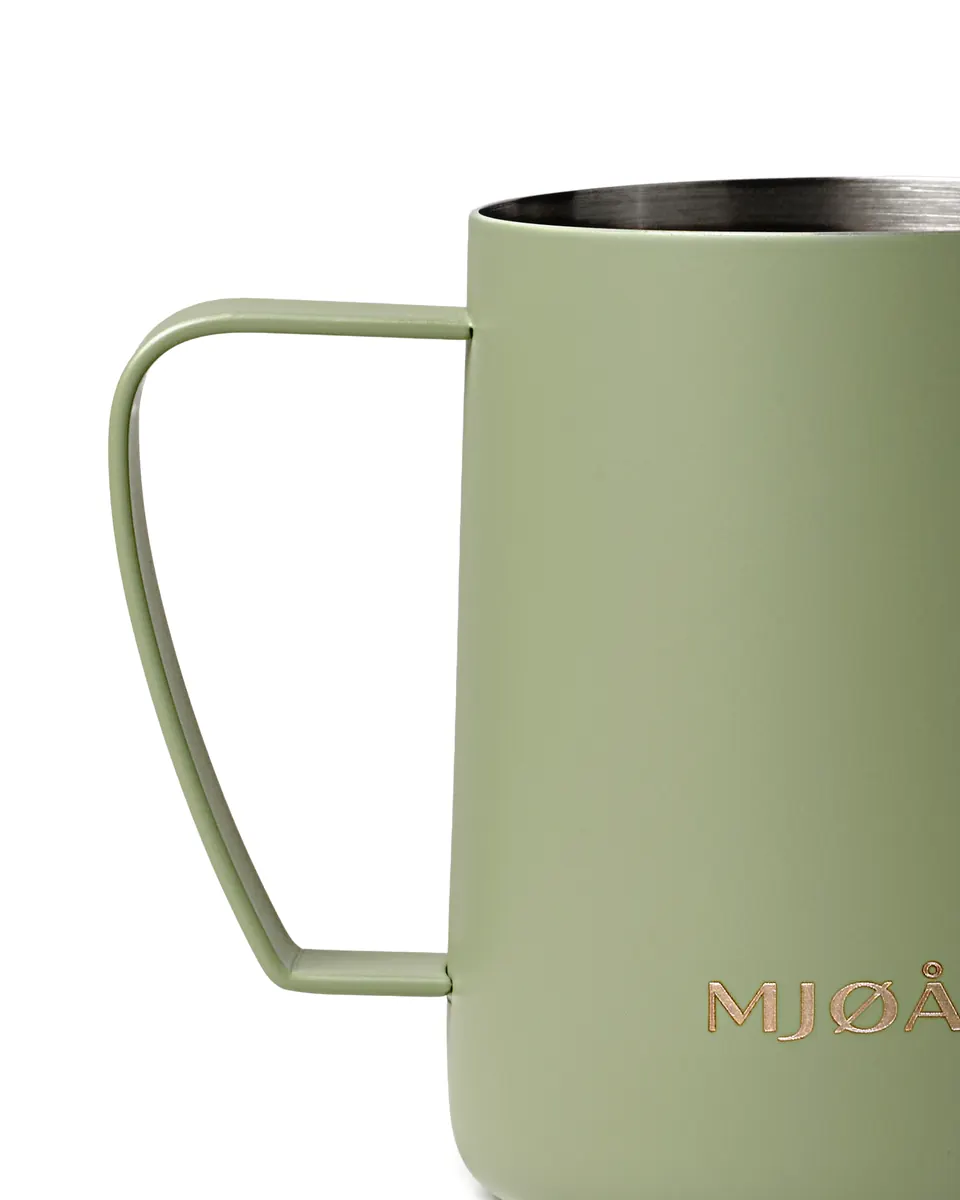
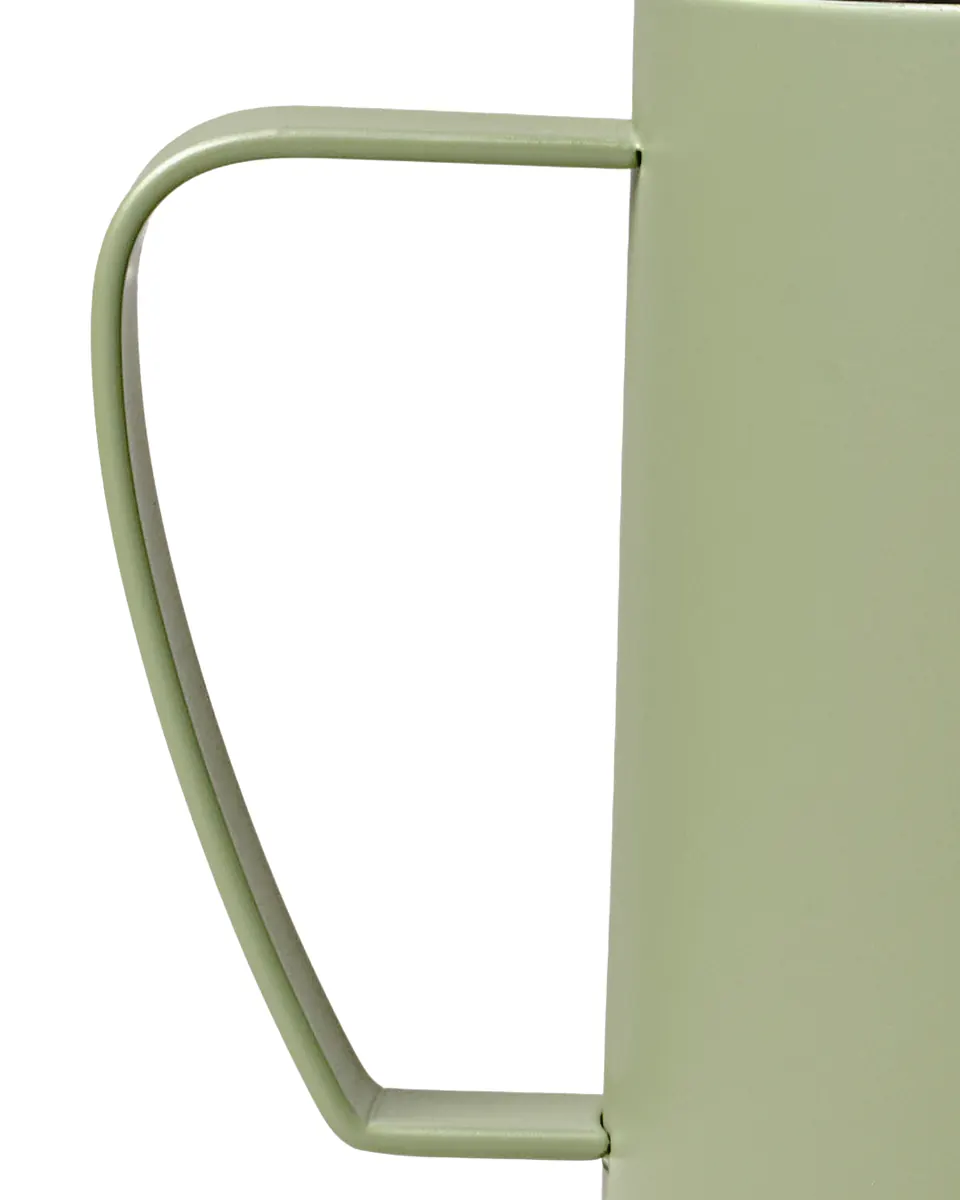
mjoar.com: Details Ausguss und Griff, Griff-Bild ohne angeschnittenen Schriftzug (Abschnitt 4, Thorsten 08.10.)
Ausguss nach Jonahs Aenderungsplan, Griff ohne gestapelte Vorteile (DE/EN).
Griff-Bild 0182 als 4:5-Ausschnitt nur mit Griff und Korpusansatz; nicht mehr
verwendete detail-griff-1600.webp entfernt.

diff --git a/de/index.html b/de/index.html
@@ -69,7 +69,7 @@
 
 <section class="abschnitt innen" id="details">
   <div class="raster kopfzeile" data-reveal><div class="k-titel"><p class="dach">Bis ins Detail</p><h2>Für jeden Tag, für viele Jahre</h2></div><p class="k-text">Damit sie dich möglichst lange begleitet, haben wir bei der LUN auch auf die Dinge geachtet, die man nicht auf den ersten Blick sieht.</p></div>
-  <div class="raster paar bild-rechts" data-reveal><div class="paar-bild"><img class="b45" src="/assets/web/detail-ausguss-680.webp" srcset="/assets/web/detail-ausguss-480.webp 480w, /assets/web/detail-ausguss-680.webp 680w" sizes="(max-width: 860px) 100vw, 520px" width="960" height="1200" alt="Ausguss der LUN" loading="lazy" decoding="async"></div><div class="paar-text"><h3>Der Ausguss</h3><p>Beim Ausguss haben wir uns für eine ausgewogene Form entschieden, nicht zu schmal und nicht zu breit. So hast du Spielraum für verschiedene Muster, vom Herz bis zur Rosetta. Vorne ist er rund gezogen, dadurch läuft die Milch gleichmäßig und reißt am Ende sauber ab.</p></div></div><div class="raster paar bild-links" data-reveal><div class="paar-bild"><img class="b45" src="/assets/web/detail-wand-960.webp" srcset="/assets/web/detail-wand-480.webp 480w, /assets/web/detail-wand-960.webp 960w, /assets/web/detail-wand-1600.webp 1600w" sizes="(max-width: 860px) 100vw, 520px" width="960" height="1200" alt="Rand der LUN in Juniper" loading="lazy" decoding="async"></div><div class="paar-text"><h3>Die Wand</h3><p>Die LUN ist aus einem Millimeter Edelstahl 304 gefertigt, die ganze Kanne einschließlich Griff. Viele Kannen in dieser Größe sind dünner. Das zusätzliche Gewicht liegt gut in der Hand und macht das Gießen ruhiger.</p></div></div><div class="raster paar bild-rechts" data-reveal><div class="paar-bild"><img class="b45" src="/assets/web/gebrauch-aufschaeumen-960.webp" srcset="/assets/web/gebrauch-aufschaeumen-480.webp 480w, /assets/web/gebrauch-aufschaeumen-960.webp 960w, /assets/web/gebrauch-aufschaeumen-1600.webp 1600w, /assets/web/gebrauch-aufschaeumen-2400.webp 2400w" sizes="(max-width: 860px) 100vw, 520px" width="960" height="1200" alt="Milch aufschäumen mit der LUN in Juniper" loading="lazy" decoding="async"></div><div class="paar-text"><h3>Die Wärme</h3><p>Edelstahl leitet Wärme gut. Beim Aufschäumen kannst du deshalb am Korpus fühlen, wie warm die Milch gerade ist, und mit etwas Übung bekommst du dafür schnell ein Gefühl. Wird er zu heiß zum Anfassen, ist die Milch fertig. Der Griff bleibt dabei angenehm.</p></div></div><div class="raster paar bild-links" data-reveal><div class="paar-bild"><img class="b45" src="/assets/web/detail-skala-784.webp" srcset="/assets/web/detail-skala-480.webp 480w, /assets/web/detail-skala-784.webp 784w" sizes="(max-width: 860px) 100vw, 520px" width="960" height="1200" alt="Skala innen in ml und oz" loading="lazy" decoding="async"></div><div class="paar-text"><h3>Die Skala</h3><p>Innen ist eine Skala in Milliliter und Unzen lasergraviert. So kannst du jeden Morgen die gleiche Menge Milch nehmen, ohne zu schätzen. Weil sie im Stahl sitzt, hält sie auch in der Spülmaschine.</p></div></div><div class="raster paar bild-rechts" data-reveal><div class="paar-bild"><img class="b45" src="/assets/web/detail-griff-960.webp" srcset="/assets/web/detail-griff-480.webp 480w, /assets/web/detail-griff-960.webp 960w, /assets/web/detail-griff-1600.webp 1600w" sizes="(max-width: 860px) 100vw, 520px" width="960" height="1200" alt="Griff und Oberfläche der LUN in Linen" loading="lazy" decoding="async"></div><div class="paar-text"><h3>Der Griff</h3><p>Der Griff ist nahtlos angesetzt, ohne sichtbare Schweißpunkte. Das sieht ruhiger aus, lässt sich leichter sauber halten, und die Kanne lässt sich beim Eingießen gut führen.</p></div></div>
+  <div class="raster paar bild-rechts" data-reveal><div class="paar-bild"><img class="b45" src="/assets/web/detail-ausguss-680.webp" srcset="/assets/web/detail-ausguss-480.webp 480w, /assets/web/detail-ausguss-680.webp 680w" sizes="(max-width: 860px) 100vw, 520px" width="960" height="1200" alt="Ausguss der LUN" loading="lazy" decoding="async"></div><div class="paar-text"><h3>Der Ausguss</h3><p>Wir haben uns bewusst für eine ausgewogene Ausgussform entschieden, nicht zu schmal und nicht zu breit. Sie lässt dir möglichst viel Spielraum für unterschiedliche Latte-Art-Muster.</p></div></div><div class="raster paar bild-links" data-reveal><div class="paar-bild"><img class="b45" src="/assets/web/detail-wand-960.webp" srcset="/assets/web/detail-wand-480.webp 480w, /assets/web/detail-wand-960.webp 960w, /assets/web/detail-wand-1600.webp 1600w" sizes="(max-width: 860px) 100vw, 520px" width="960" height="1200" alt="Rand der LUN in Juniper" loading="lazy" decoding="async"></div><div class="paar-text"><h3>Die Wand</h3><p>Die LUN ist aus einem Millimeter Edelstahl 304 gefertigt, die ganze Kanne einschließlich Griff. Viele Kannen in dieser Größe sind dünner. Das zusätzliche Gewicht liegt gut in der Hand und macht das Gießen ruhiger.</p></div></div><div class="raster paar bild-rechts" data-reveal><div class="paar-bild"><img class="b45" src="/assets/web/gebrauch-aufschaeumen-960.webp" srcset="/assets/web/gebrauch-aufschaeumen-480.webp 480w, /assets/web/gebrauch-aufschaeumen-960.webp 960w, /assets/web/gebrauch-aufschaeumen-1600.webp 1600w, /assets/web/gebrauch-aufschaeumen-2400.webp 2400w" sizes="(max-width: 860px) 100vw, 520px" width="960" height="1200" alt="Milch aufschäumen mit der LUN in Juniper" loading="lazy" decoding="async"></div><div class="paar-text"><h3>Die Wärme</h3><p>Edelstahl leitet Wärme gut. Beim Aufschäumen kannst du deshalb am Korpus fühlen, wie warm die Milch gerade ist, und mit etwas Übung bekommst du dafür schnell ein Gefühl. Wird er zu heiß zum Anfassen, ist die Milch fertig. Der Griff bleibt dabei angenehm.</p></div></div><div class="raster paar bild-links" data-reveal><div class="paar-bild"><img class="b45" src="/assets/web/detail-skala-784.webp" srcset="/assets/web/detail-skala-480.webp 480w, /assets/web/detail-skala-784.webp 784w" sizes="(max-width: 860px) 100vw, 520px" width="960" height="1200" alt="Skala innen in ml und oz" loading="lazy" decoding="async"></div><div class="paar-text"><h3>Die Skala</h3><p>Innen ist eine Skala in Milliliter und Unzen lasergraviert. So kannst du jeden Morgen die gleiche Menge Milch nehmen, ohne zu schätzen. Weil sie im Stahl sitzt, hält sie auch in der Spülmaschine.</p></div></div><div class="raster paar bild-rechts" data-reveal><div class="paar-bild"><img class="b45" src="/assets/web/detail-griff-960.webp" srcset="/assets/web/detail-griff-480.webp 480w, /assets/web/detail-griff-960.webp 960w" sizes="(max-width: 860px) 100vw, 520px" width="960" height="1200" alt="Griff und Oberfläche der LUN in Linen" loading="lazy" decoding="async"></div><div class="paar-text"><h3>Der Griff</h3><p>Der Griff ist nahtlos angesetzt, ohne sichtbare Schweißpunkte, und so ausbalanciert, dass sich die Kanne beim Eingießen gut führen lässt.</p></div></div>
 </section>
 
 <section class="abschnitt innen" id="gut-zu-wissen">

diff --git a/index.html b/index.html
@@ -69,7 +69,7 @@
 
 <section class="abschnitt innen" id="details">
   <div class="raster kopfzeile" data-reveal><div class="k-titel"><p class="dach">Bis ins Detail</p><h2>Für jeden Tag, für viele Jahre</h2></div><p class="k-text">Damit sie dich möglichst lange begleitet, haben wir bei der LUN auch auf die Dinge geachtet, die man nicht auf den ersten Blick sieht.</p></div>
-  <div class="raster paar bild-rechts" data-reveal><div class="paar-bild"><img class="b45" src="/assets/web/detail-ausguss-680.webp" srcset="/assets/web/detail-ausguss-480.webp 480w, /assets/web/detail-ausguss-680.webp 680w" sizes="(max-width: 860px) 100vw, 520px" width="960" height="1200" alt="Ausguss der LUN" loading="lazy" decoding="async"></div><div class="paar-text"><h3>Der Ausguss</h3><p>Beim Ausguss haben wir uns für eine ausgewogene Form entschieden, nicht zu schmal und nicht zu breit. So hast du Spielraum für verschiedene Muster, vom Herz bis zur Rosetta. Vorne ist er rund gezogen, dadurch läuft die Milch gleichmäßig und reißt am Ende sauber ab.</p></div></div><div class="raster paar bild-links" data-reveal><div class="paar-bild"><img class="b45" src="/assets/web/detail-wand-960.webp" srcset="/assets/web/detail-wand-480.webp 480w, /assets/web/detail-wand-960.webp 960w, /assets/web/detail-wand-1600.webp 1600w" sizes="(max-width: 860px) 100vw, 520px" width="960" height="1200" alt="Rand der LUN in Juniper" loading="lazy" decoding="async"></div><div class="paar-text"><h3>Die Wand</h3><p>Die LUN ist aus einem Millimeter Edelstahl 304 gefertigt, die ganze Kanne einschließlich Griff. Viele Kannen in dieser Größe sind dünner. Das zusätzliche Gewicht liegt gut in der Hand und macht das Gießen ruhiger.</p></div></div><div class="raster paar bild-rechts" data-reveal><div class="paar-bild"><img class="b45" src="/assets/web/gebrauch-aufschaeumen-960.webp" srcset="/assets/web/gebrauch-aufschaeumen-480.webp 480w, /assets/web/gebrauch-aufschaeumen-960.webp 960w, /assets/web/gebrauch-aufschaeumen-1600.webp 1600w, /assets/web/gebrauch-aufschaeumen-2400.webp 2400w" sizes="(max-width: 860px) 100vw, 520px" width="960" height="1200" alt="Milch aufschäumen mit der LUN in Juniper" loading="lazy" decoding="async"></div><div class="paar-text"><h3>Die Wärme</h3><p>Edelstahl leitet Wärme gut. Beim Aufschäumen kannst du deshalb am Korpus fühlen, wie warm die Milch gerade ist, und mit etwas Übung bekommst du dafür schnell ein Gefühl. Wird er zu heiß zum Anfassen, ist die Milch fertig. Der Griff bleibt dabei angenehm.</p></div></div><div class="raster paar bild-links" data-reveal><div class="paar-bild"><img class="b45" src="/assets/web/detail-skala-784.webp" srcset="/assets/web/detail-skala-480.webp 480w, /assets/web/detail-skala-784.webp 784w" sizes="(max-width: 860px) 100vw, 520px" width="960" height="1200" alt="Skala innen in ml und oz" loading="lazy" decoding="async"></div><div class="paar-text"><h3>Die Skala</h3><p>Innen ist eine Skala in Milliliter und Unzen lasergraviert. So kannst du jeden Morgen die gleiche Menge Milch nehmen, ohne zu schätzen. Weil sie im Stahl sitzt, hält sie auch in der Spülmaschine.</p></div></div><div class="raster paar bild-rechts" data-reveal><div class="paar-bild"><img class="b45" src="/assets/web/detail-griff-960.webp" srcset="/assets/web/detail-griff-480.webp 480w, /assets/web/detail-griff-960.webp 960w, /assets/web/detail-griff-1600.webp 1600w" sizes="(max-width: 860px) 100vw, 520px" width="960" height="1200" alt="Griff und Oberfläche der LUN in Linen" loading="lazy" decoding="async"></div><div class="paar-text"><h3>Der Griff</h3><p>Der Griff ist nahtlos angesetzt, ohne sichtbare Schweißpunkte. Das sieht ruhiger aus, lässt sich leichter sauber halten, und die Kanne lässt sich beim Eingießen gut führen.</p></div></div>
+  <div class="raster paar bild-rechts" data-reveal><div class="paar-bild"><img class="b45" src="/assets/web/detail-ausguss-680.webp" srcset="/assets/web/detail-ausguss-480.webp 480w, /assets/web/detail-ausguss-680.webp 680w" sizes="(max-width: 860px) 100vw, 520px" width="960" height="1200" alt="Ausguss der LUN" loading="lazy" decoding="async"></div><div class="paar-text"><h3>Der Ausguss</h3><p>Wir haben uns bewusst für eine ausgewogene Ausgussform entschieden, nicht zu schmal und nicht zu breit. Sie lässt dir möglichst viel Spielraum für unterschiedliche Latte-Art-Muster.</p></div></div><div class="raster paar bild-links" data-reveal><div class="paar-bild"><img class="b45" src="/assets/web/detail-wand-960.webp" srcset="/assets/web/detail-wand-480.webp 480w, /assets/web/detail-wand-960.webp 960w, /assets/web/detail-wand-1600.webp 1600w" sizes="(max-width: 860px) 100vw, 520px" width="960" height="1200" alt="Rand der LUN in Juniper" loading="lazy" decoding="async"></div><div class="paar-text"><h3>Die Wand</h3><p>Die LUN ist aus einem Millimeter Edelstahl 304 gefertigt, die ganze Kanne einschließlich Griff. Viele Kannen in dieser Größe sind dünner. Das zusätzliche Gewicht liegt gut in der Hand und macht das Gießen ruhiger.</p></div></div><div class="raster paar bild-rechts" data-reveal><div class="paar-bild"><img class="b45" src="/assets/web/gebrauch-aufschaeumen-960.webp" srcset="/assets/web/gebrauch-aufschaeumen-480.webp 480w, /assets/web/gebrauch-aufschaeumen-960.webp 960w, /assets/web/gebrauch-aufschaeumen-1600.webp 1600w, /assets/web/gebrauch-aufschaeumen-2400.webp 2400w" sizes="(max-width: 860px) 100vw, 520px" width="960" height="1200" alt="Milch aufschäumen mit der LUN in Juniper" loading="lazy" decoding="async"></div><div class="paar-text"><h3>Die Wärme</h3><p>Edelstahl leitet Wärme gut. Beim Aufschäumen kannst du deshalb am Korpus fühlen, wie warm die Milch gerade ist, und mit etwas Übung bekommst du dafür schnell ein Gefühl. Wird er zu heiß zum Anfassen, ist die Milch fertig. Der Griff bleibt dabei angenehm.</p></div></div><div class="raster paar bild-links" data-reveal><div class="paar-bild"><img class="b45" src="/assets/web/detail-skala-784.webp" srcset="/assets/web/detail-skala-480.webp 480w, /assets/web/detail-skala-784.webp 784w" sizes="(max-width: 860px) 100vw, 520px" width="960" height="1200" alt="Skala innen in ml und oz" loading="lazy" decoding="async"></div><div class="paar-text"><h3>Die Skala</h3><p>Innen ist eine Skala in Milliliter und Unzen lasergraviert. So kannst du jeden Morgen die gleiche Menge Milch nehmen, ohne zu schätzen. Weil sie im Stahl sitzt, hält sie auch in der Spülmaschine.</p></div></div><div class="raster paar bild-rechts" data-reveal><div class="paar-bild"><img class="b45" src="/assets/web/detail-griff-960.webp" srcset="/assets/web/detail-griff-480.webp 480w, /assets/web/detail-griff-960.webp 960w" sizes="(max-width: 860px) 100vw, 520px" width="960" height="1200" alt="Griff und Oberfläche der LUN in Linen" loading="lazy" decoding="async"></div><div class="paar-text"><h3>Der Griff</h3><p>Der Griff ist nahtlos angesetzt, ohne sichtbare Schweißpunkte, und so ausbalanciert, dass sich die Kanne beim Eingießen gut führen lässt.</p></div></div>
 </section>
 
 <section class="abschnitt innen" id="gut-zu-wissen">

diff --git a/en/index.html b/en/index.html
@@ -69,7 +69,7 @@
 
 <section class="abschnitt innen" id="details">
   <div class="raster kopfzeile" data-reveal><div class="k-titel"><p class="dach">Down to the detail</p><h2>For every day, for many years</h2></div><p class="k-text">So that it stays with you for a long time, we also paid attention to the things you don&#x27;t see at first glance.</p></div>
-  <div class="raster paar bild-rechts" data-reveal><div class="paar-bild"><img class="b45" src="/assets/web/detail-ausguss-680.webp" srcset="/assets/web/detail-ausguss-480.webp 480w, /assets/web/detail-ausguss-680.webp 680w" sizes="(max-width: 860px) 100vw, 520px" width="960" height="1200" alt="Spout of the LUN" loading="lazy" decoding="async"></div><div class="paar-text"><h3>The spout</h3><p>We chose a balanced spout, neither too narrow nor too wide. That gives you room for different patterns, from a heart to a rosetta. The tip is rounded, so the milk flows evenly and stops cleanly at the end.</p></div></div><div class="raster paar bild-links" data-reveal><div class="paar-bild"><img class="b45" src="/assets/web/detail-wand-960.webp" srcset="/assets/web/detail-wand-480.webp 480w, /assets/web/detail-wand-960.webp 960w, /assets/web/detail-wand-1600.webp 1600w" sizes="(max-width: 860px) 100vw, 520px" width="960" height="1200" alt="Rim of the LUN in Juniper" loading="lazy" decoding="async"></div><div class="paar-text"><h3>The wall</h3><p>The LUN is made from one millimetre of 304 stainless steel, the whole jug including the handle. Many jugs this size are thinner. The extra weight sits well in the hand and makes pouring steadier.</p></div></div><div class="raster paar bild-rechts" data-reveal><div class="paar-bild"><img class="b45" src="/assets/web/gebrauch-aufschaeumen-960.webp" srcset="/assets/web/gebrauch-aufschaeumen-480.webp 480w, /assets/web/gebrauch-aufschaeumen-960.webp 960w, /assets/web/gebrauch-aufschaeumen-1600.webp 1600w, /assets/web/gebrauch-aufschaeumen-2400.webp 2400w" sizes="(max-width: 860px) 100vw, 520px" width="960" height="1200" alt="Steaming milk with the LUN in Juniper" loading="lazy" decoding="async"></div><div class="paar-text"><h3>The warmth</h3><p>Stainless steel conducts heat well, so while you steam you can feel on the body how warm the milk is, and with a little practice you quickly get a feel for it. When it gets too hot to touch, the milk is ready. The handle stays comfortable.</p></div></div><div class="raster paar bild-links" data-reveal><div class="paar-bild"><img class="b45" src="/assets/web/detail-skala-784.webp" srcset="/assets/web/detail-skala-480.webp 480w, /assets/web/detail-skala-784.webp 784w" sizes="(max-width: 860px) 100vw, 520px" width="960" height="1200" alt="Scale inside in ml and oz" loading="lazy" decoding="async"></div><div class="paar-text"><h3>The scale</h3><p>A scale in millilitres and ounces is laser engraved inside. That way you can use the same amount of milk every morning without guessing. Because it&#x27;s in the steel, it lasts in the dishwasher too.</p></div></div><div class="raster paar bild-rechts" data-reveal><div class="paar-bild"><img class="b45" src="/assets/web/detail-griff-960.webp" srcset="/assets/web/detail-griff-480.webp 480w, /assets/web/detail-griff-960.webp 960w, /assets/web/detail-griff-1600.webp 1600w" sizes="(max-width: 860px) 100vw, 520px" width="960" height="1200" alt="Handle and finish of the LUN in Linen" loading="lazy" decoding="async"></div><div class="paar-text"><h3>The handle</h3><p>The handle is joined without a seam or visible weld points. It looks calmer, is easier to keep clean, and helps you guide the jug as you pour.</p></div></div>
+  <div class="raster paar bild-rechts" data-reveal><div class="paar-bild"><img class="b45" src="/assets/web/detail-ausguss-680.webp" srcset="/assets/web/detail-ausguss-480.webp 480w, /assets/web/detail-ausguss-680.webp 680w" sizes="(max-width: 860px) 100vw, 520px" width="960" height="1200" alt="Spout of the LUN" loading="lazy" decoding="async"></div><div class="paar-text"><h3>The spout</h3><p>We deliberately chose a balanced spout, neither too narrow nor too wide. It leaves you as much room as possible for different latte art patterns.</p></div></div><div class="raster paar bild-links" data-reveal><div class="paar-bild"><img class="b45" src="/assets/web/detail-wand-960.webp" srcset="/assets/web/detail-wand-480.webp 480w, /assets/web/detail-wand-960.webp 960w, /assets/web/detail-wand-1600.webp 1600w" sizes="(max-width: 860px) 100vw, 520px" width="960" height="1200" alt="Rim of the LUN in Juniper" loading="lazy" decoding="async"></div><div class="paar-text"><h3>The wall</h3><p>The LUN is made from one millimetre of 304 stainless steel, the whole jug including the handle. Many jugs this size are thinner. The extra weight sits well in the hand and makes pouring steadier.</p></div></div><div class="raster paar bild-rechts" data-reveal><div class="paar-bild"><img class="b45" src="/assets/web/gebrauch-aufschaeumen-960.webp" srcset="/assets/web/gebrauch-aufschaeumen-480.webp 480w, /assets/web/gebrauch-aufschaeumen-960.webp 960w, /assets/web/gebrauch-aufschaeumen-1600.webp 1600w, /assets/web/gebrauch-aufschaeumen-2400.webp 2400w" sizes="(max-width: 860px) 100vw, 520px" width="960" height="1200" alt="Steaming milk with the LUN in Juniper" loading="lazy" decoding="async"></div><div class="paar-text"><h3>The warmth</h3><p>Stainless steel conducts heat well, so while you steam you can feel on the body how warm the milk is, and with a little practice you quickly get a feel for it. When it gets too hot to touch, the milk is ready. The handle stays comfortable.</p></div></div><div class="raster paar bild-links" data-reveal><div class="paar-bild"><img class="b45" src="/assets/web/detail-skala-784.webp" srcset="/assets/web/detail-skala-480.webp 480w, /assets/web/detail-skala-784.webp 784w" sizes="(max-width: 860px) 100vw, 520px" width="960" height="1200" alt="Scale inside in ml and oz" loading="lazy" decoding="async"></div><div class="paar-text"><h3>The scale</h3><p>A scale in millilitres and ounces is laser engraved inside. That way you can use the same amount of milk every morning without guessing. Because it&#x27;s in the steel, it lasts in the dishwasher too.</p></div></div><div class="raster paar bild-rechts" data-reveal><div class="paar-bild"><img class="b45" src="/assets/web/detail-griff-960.webp" srcset="/assets/web/detail-griff-480.webp 480w, /assets/web/detail-griff-960.webp 960w" sizes="(max-width: 860px) 100vw, 520px" width="960" height="1200" alt="Handle and finish of the LUN in Linen" loading="lazy" decoding="async"></div><div class="paar-text"><h3>The handle</h3><p>The handle is joined without a seam or visible weld points, and balanced so the jug is easy to guide as you pour.</p></div></div>
 </section>
 
 <section class="abschnitt innen" id="good-to-know">

diff --git a/_build/texte_v4.py b/_build/texte_v4.py
@@ -43,11 +43,11 @@ T = {
             "h": "Für jeden Tag, für viele Jahre",
             "intro": "Damit sie dich möglichst lange begleitet, haben wir bei der LUN auch auf die Dinge geachtet, die man nicht auf den ersten Blick sieht.",
             "punkte": [
-                ("Der Ausguss", "Beim Ausguss haben wir uns für eine ausgewogene Form entschieden, nicht zu schmal und nicht zu breit. So hast du Spielraum für verschiedene Muster, vom Herz bis zur Rosetta. Vorne ist er rund gezogen, dadurch läuft die Milch gleichmäßig und reißt am Ende sauber ab.", "detail-ausguss"),
+                ("Der Ausguss", "Wir haben uns bewusst für eine ausgewogene Ausgussform entschieden, nicht zu schmal und nicht zu breit. Sie lässt dir möglichst viel Spielraum für unterschiedliche Latte-Art-Muster.", "detail-ausguss"),
                 ("Die Wand", "Die LUN ist aus einem Millimeter Edelstahl 304 gefertigt, die ganze Kanne einschließlich Griff. Viele Kannen in dieser Größe sind dünner. Das zusätzliche Gewicht liegt gut in der Hand und macht das Gießen ruhiger.", "detail-wand"),
                 ("Die Wärme", "Edelstahl leitet Wärme gut. Beim Aufschäumen kannst du deshalb am Korpus fühlen, wie warm die Milch gerade ist, und mit etwas Übung bekommst du dafür schnell ein Gefühl. Wird er zu heiß zum Anfassen, ist die Milch fertig. Der Griff bleibt dabei angenehm.", "gebrauch-aufschaeumen"),
                 ("Die Skala", "Innen ist eine Skala in Milliliter und Unzen lasergraviert. So kannst du jeden Morgen die gleiche Menge Milch nehmen, ohne zu schätzen. Weil sie im Stahl sitzt, hält sie auch in der Spülmaschine.", "detail-skala"),
-                ("Der Griff", "Der Griff ist nahtlos angesetzt, ohne sichtbare Schweißpunkte. Das sieht ruhiger aus, lässt sich leichter sauber halten, und die Kanne lässt sich beim Eingießen gut führen.", "detail-griff"),
+                ("Der Griff", "Der Griff ist nahtlos angesetzt, ohne sichtbare Schweißpunkte, und so ausbalanciert, dass sich die Kanne beim Eingießen gut führen lässt.", "detail-griff"),
             ],
         },
         # 5 Gut zu wissen
@@ -161,11 +161,11 @@ T = {
             "h": "For every day, for many years",
             "intro": "So that it stays with you for a long time, we also paid attention to the things you don't see at first glance.",
             "punkte": [
-                ("The spout", "We chose a balanced spout, neither too narrow nor too wide. That gives you room for different patterns, from a heart to a rosetta. The tip is rounded, so the milk flows evenly and stops cleanly at the end.", "detail-ausguss"),
+                ("The spout", "We deliberately chose a balanced spout, neither too narrow nor too wide. It leaves you as much room as possible for different latte art patterns.", "detail-ausguss"),
                 ("The wall", "The LUN is made from one millimetre of 304 stainless steel, the whole jug including the handle. Many jugs this size are thinner. The extra weight sits well in the hand and makes pouring steadier.", "detail-wand"),
                 ("The warmth", "Stainless steel conducts heat well, so while you steam you can feel on the body how warm the milk is, and with a little practice you quickly get a feel for it. When it gets too hot to touch, the milk is ready. The handle stays comfortable.", "gebrauch-aufschaeumen"),
                 ("The scale", "A scale in millilitres and ounces is laser engraved inside. That way you can use the same amount of milk every morning without guessing. Because it's in the steel, it lasts in the dishwasher too.", "detail-skala"),
-                ("The handle", "The handle is joined without a seam or visible weld points. It looks calmer, is easier to keep clean, and helps you guide the jug as you pour.", "detail-griff"),
+                ("The handle", "The handle is joined without a seam or visible weld points, and balanced so the jug is easy to guide as you pour.", "detail-griff"),
             ],
         },
         "gut": {

diff --git a/_build/bilder.py b/_build/bilder.py
@@ -99,8 +99,9 @@ d = weiss_anheben(quelle("MJOAR0215"))
 export("detail-ausguss", d.crop((0, 100, 680, 950)))
 export("detail-skala", d.crop((500, 90, 1284, 1070)))
 export("detail-wand", crop_cover(quelle("MJOAR0307"), 4, 5, cx=0.30, cy=0.523, zoom=3779 / 2000))
-# Griff 0182 (Juniper, Freisteller auf Weiß): ganzer Griff mit beiden Ansätzen am Korpus, 1600 x 2000.
-export("detail-griff", weiss_anheben(quelle("MJOAR0182")).crop((150, 380, 1750, 2380)))
+# Griff 0182 (Juniper, Freisteller auf Weiß): ganzer Griff mit beiden Ansätzen am Korpus, 1060 x 1325 (4:5),
+# rechts vor dem Schriftzug abgeschnitten, damit er nicht angeschnitten erscheint (Thorsten 08.10.).
+export("detail-griff", weiss_anheben(quelle("MJOAR0182")).crop((230, 760, 1290, 2085)))
 
 # Größe 0021 1 (Hand), 4:5 wie A+ 06
 export("groesse", crop_cover(quelle("Mjoar_0021 1"), 4, 5, cx=0.42, cy=0.45))
